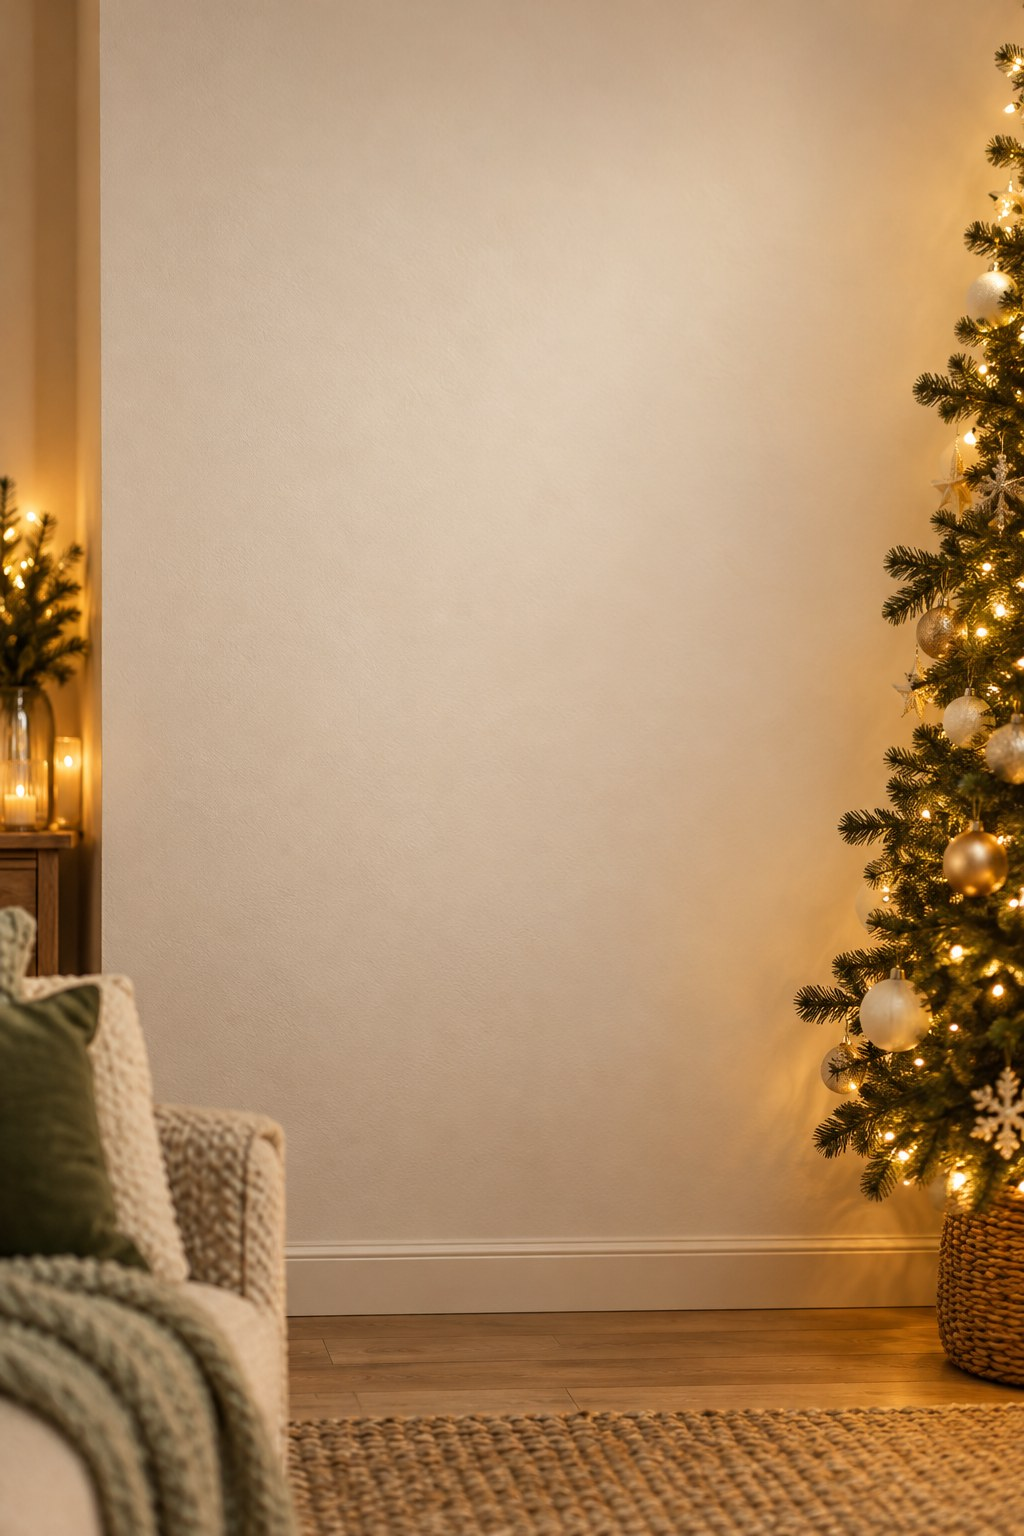
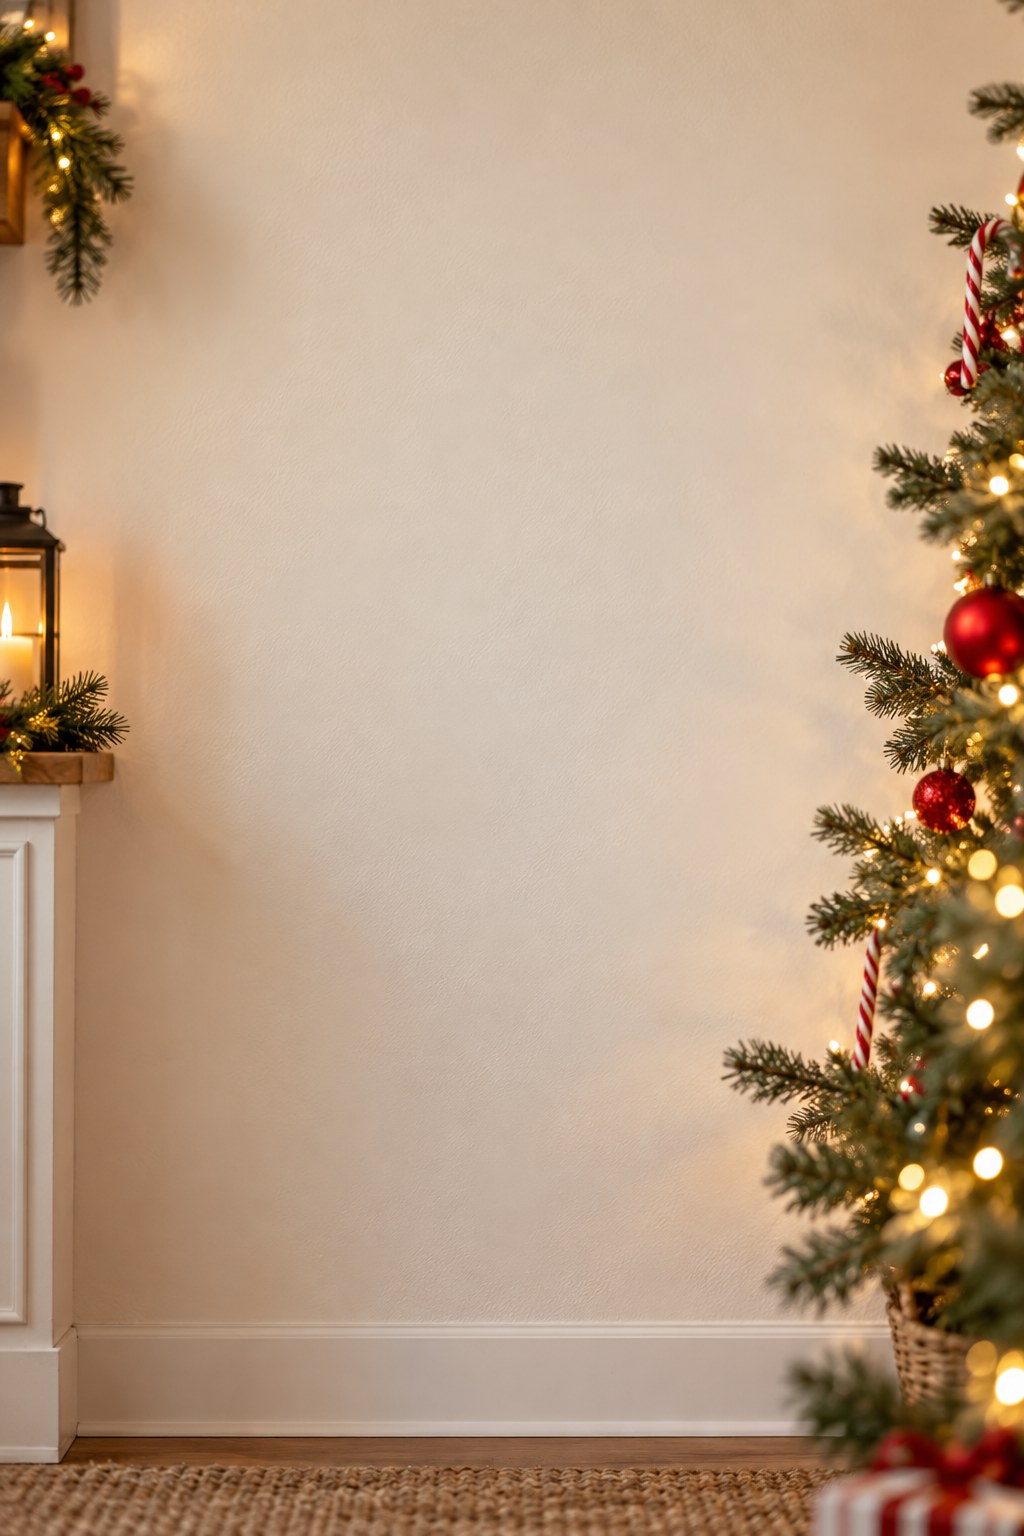
クリスマス背景：壁に近づけて作り直し（ツリー・ガーランド）、ジンジャーブレッドとキャンディケーンの背景を追加

diff --git a/App/Screens/PaywallView.swift b/App/Screens/PaywallView.swift
@@ -169,7 +169,7 @@ struct PaywallView: View {
                 }
                 .clipped()
 
-            Text("カフェ・おうち・毛糸…\nスタイリング背景24種が使い放題")
+            Text("カフェ・おうち・毛糸…\nスタイリング背景25種が使い放題")
                 .font(.system(size: 15, weight: .bold, design: .rounded))
                 .foregroundStyle(Palette.ink)
                 .multilineTextAlignment(.center)
@@ -206,7 +206,7 @@ struct PaywallView: View {
                        title: "透かしロゴなし", detail: "そのままSNSやショップに載せられます")
             Divider().padding(.leading, 74)
             benefitRow(icon: "photo.stack.fill", color: Palette.orange,
-                       title: "すべての背景が使える", detail: "スタイリング背景24種＋すべてのカラー")
+                       title: "すべての背景が使える", detail: "スタイリング背景25種＋すべてのカラー")
             Divider().padding(.leading, 74)
             benefitRow(icon: "hand.raised.fill", color: Palette.mint,
                        title: "作品は撮ったまま", detail: "背景だけ変えて、作品はそのまま")

diff --git a/Tests/BackgroundAndEdgeTests.swift b/Tests/BackgroundAndEdgeTests.swift
@@ -23,12 +23,12 @@ final class BackgroundLibraryTests: XCTestCase {
         XCTAssertTrue(library.items.contains { $0.premium }, "有料背景がない")
     }
 
-    func testBundledPhotoBackgroundsAreSixFreeAndTwentyFourPremium() {
+    func testBundledPhotoBackgroundsAreSixFreeAndTwentyFivePremium() {
         let photos = BackgroundLibrary.shared.items.filter {
             if case .image = $0.kind { return true } else { return false }
         }
         XCTAssertEqual(photos.filter { !$0.premium }.count, 6)
-        XCTAssertEqual(photos.filter { $0.premium }.count, 24)
+        XCTAssertEqual(photos.filter { $0.premium }.count, 25)
         XCTAssertTrue(photos.allSatisfy { $0.aiGenerated }, "同梱写真は AI 生成として表示する")
     }
 
